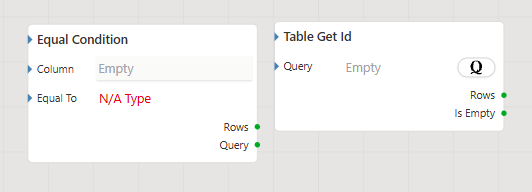
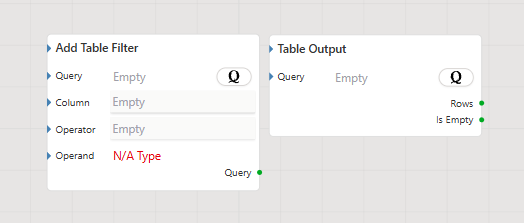
Update 2 files, create 1

diff --git a/prompt/Flow Block IO sampai Error.md b/prompt/Flow Block IO sampai Error.md
@@ -7,9 +7,8 @@
     prompt
 ---
 /phoenix-docs-silverbullet /phoenix-docs-knowledge
-![[prompt/2026-11-09_02-45-23.png]]
 
-![[prompt/2026-11-09_02-29-03.png]]
+![[prompt/2026-11-09_02-57-36.png]]
 Tolong buatkan **8 halaman Flow Block** untuk dokumentasi Phoenix, yaitu halaman per block yang menjadi tujuan tautan pada enam halaman Pengenalan kategori Flow Block yang saya lampirkan (Input dan Output, Query, Modular, Chrono, Error). Enam halaman kategori itu sudah final dan menjadi sumber kebenaran untuk fungsi tiap block, istilah, path, dan alias tautan.
 
 ## Daftar halaman
@@ -21,7 +20,7 @@ Seluruh path berada di bawah `Docs/Modul Logic/Flow/Flow Block/`. Alias tautan m
 | 1 | Input dan Output | `Input dan Output/Branch` | Branch Block |
 | 2 | Input dan Output | `Input dan Output/Passer` | Passer Block |
 | 3 | Query | `Query/Condition/Equal Condition` | Condition Query Block |
-| 4 | Query | `Query/Execute/Table Get Id` | Execute Query Block |
+| 4 | Query | `Query/Execute/Table Output` | Execute Query Block |
 | 5 | Modular (API) | `Modular/API/HTTP Request` | HTTP Request API Block |
 | 6 | Modular (AI) | `Modular/AI/OpenAI 4` | OpenAI 4 AI Block |
 | 7 | Chrono | `Chrono/Delay` | Delay Chrono Block |
